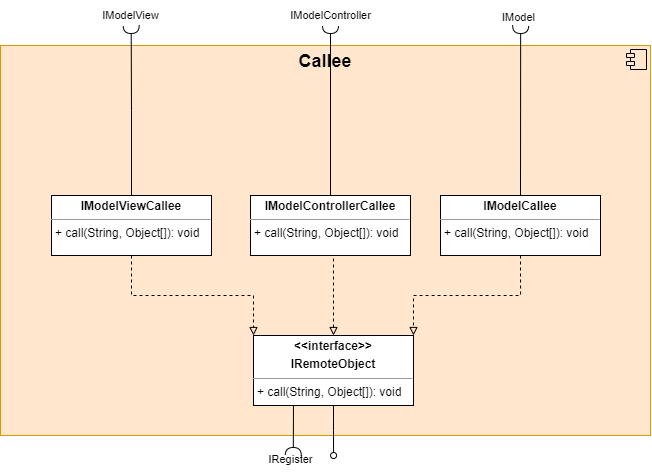
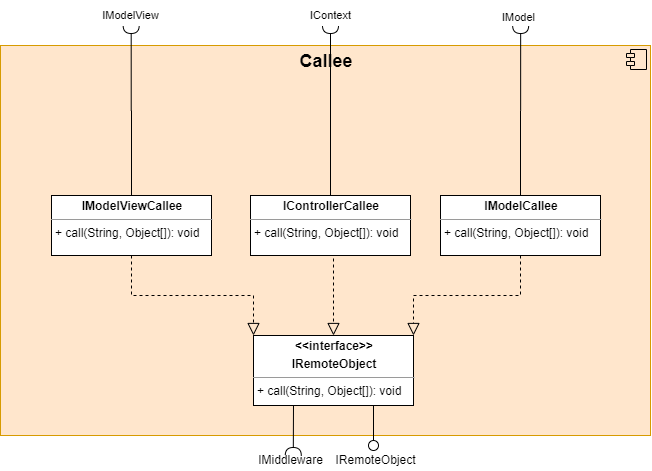
updated appstub with IContext and IMiddleware (#238)

diff --git a/src/main/java/de/hawh/beta3/application/stub/caller/IModelViewCaller.java b/src/main/java/de/hawh/beta3/application/stub/caller/IModelViewCaller.java
@@ -9,17 +9,17 @@ public class IModelViewCaller implements IModelView {
     private IMiddleware mw = Middleware.getInstance();
     private int id = 1;
 
-    //@Override
+    @Override
     public void updatePlayer(int playerID, int x, int y, int direction) {
         mw.invoke(id, "updatePlayer", new Object[]{playerID, x, y, direction});
     }
 
-    //@Override
+    @Override
     public void updateNumPlayers(int numPlayers) {
         mw.invoke(id, "updateNumPlayers", new Object[]{numPlayers});
     }
 
-    //@Override
+    @Override
     public void informUser(String message) {
         mw.invoke(id, "informUser", new Object[]{message});
     }
